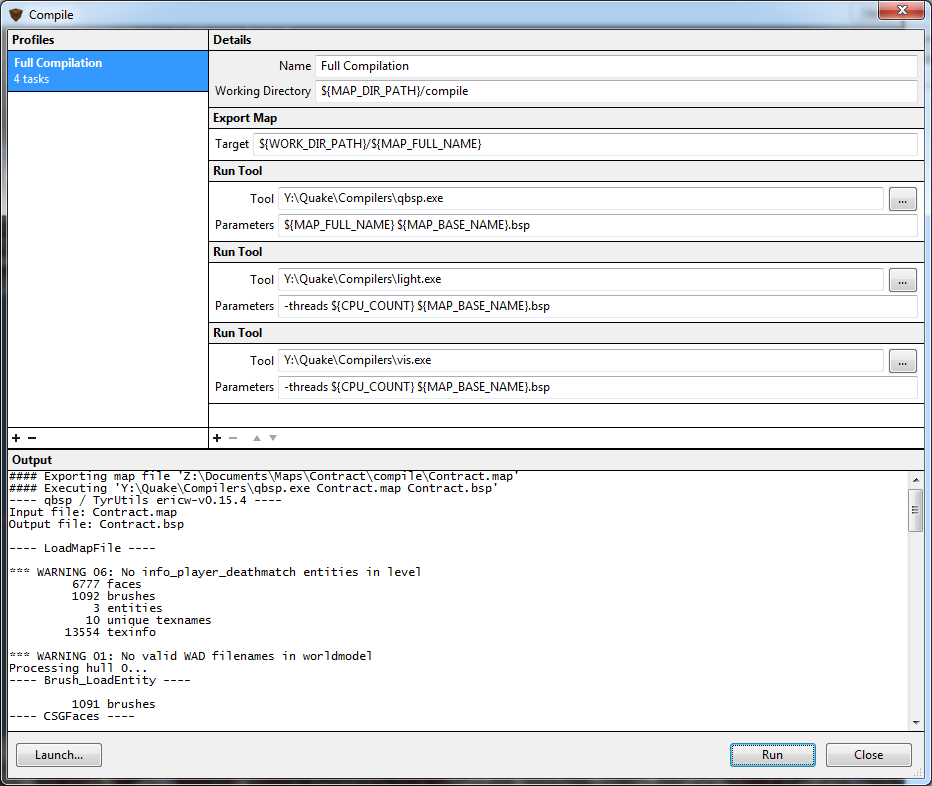
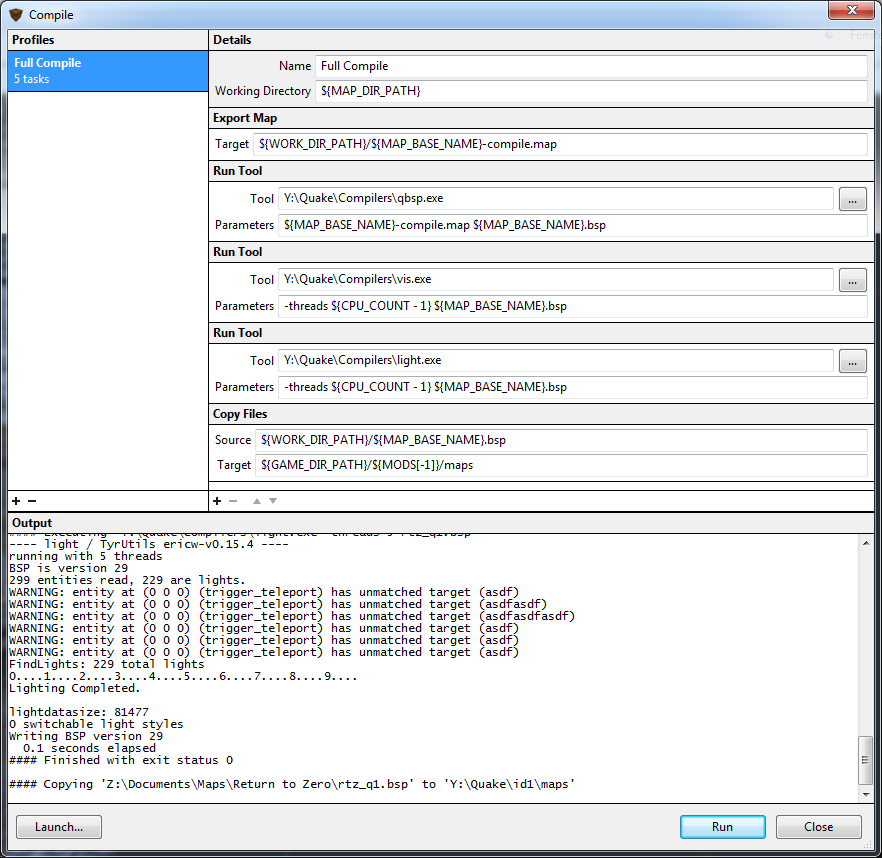
Update manual for new recommended compilation settings.

Changed region(s): [[0.0, 0.0, 1.0, 1.0]]

diff --git a/app/resources/documentation/help/index.md b/app/resources/documentation/help/index.md
@@ -1037,12 +1037,12 @@ Variable 		Scope 			Description
 
 It is recommended to use the following general process for compiling maps and to adapt it to your specified needs:
 
-1. Set the working directory to `${MAP_DIR_PATH}/compile`.
-2. Add an *Export Map* task and set its target to `${WORK_DIR_PATH}/${MAP_FULL_NAME}`.
-3. Add *Run Tool* tasks for the compilation tools that you wish to run. Use the expressions `${MAP_FULL_NAME}` and `${MAP_BASE_NAME}.bsp` to specify the input and output files for the tools. Since you have set a working directory, you don't need to specify absolute paths here.
-4. Finally, add a *Copy Files* task and set its source to `${WORK_DIR_PATH}/${MAP_BASE_NAME}.bsp` and its target to `${MOD[-1]}/maps`. This copies the file to the maps directory within the last enabled mod.
+1. Set the working directory to `${MAP_DIR_PATH}`.
+2. Add an *Export Map* task and set its target to `${WORK_DIR_PATH}/${MAP_BASE_NAME}-compile.map`.
+3. Add *Run Tool* tasks for the compilation tools that you wish to run. Use the expressions `${MAP_BASE_NAME}-compile.map`` and `${MAP_BASE_NAME}.bsp` to specify the input and output files for the tools. Since you have set a working directory, you don't need to specify absolute paths here.
+4. Finally, add a *Copy Files* task and set its source to `${WORK_DIR_PATH}/${MAP_BASE_NAME}.bsp` and its target to `${GAME_DIR_PATH}/${MOD[-1]}/maps`. This copies the file to the maps directory within the last enabled mod.
 
-The last step will copy the bsp file to the appropriate directory within the game path. You can add more *Copy Files* tasks if the compilation produces more than just a bsp file (e.g. lightmap files).
+The last step will copy the bsp file to the appropriate directory within the game path. You can add more *Copy Files* tasks if the compilation produces more than just a bsp file (e.g. lightmap files). Alternatively, you can use a wildcard expression such as `${WORK_DIR_PATH}/${MAP_BASE_NAME}.*` to copy related files.
 
 To run a compilation profile, click the 'Run' button in the compilation dialog. Note that the 'Run' button changes into a 'Stop' button once the compilation profile is running. If you click on this button again, TrenchBroom will terminate the currently running tool. A running compilation will also be terminated if you close the compilation dialog or if you close the main window, but TrenchBroom will ask you before this happens. Note that the compilation tools are run in the background. You can keep working on your map if you wish.
 
